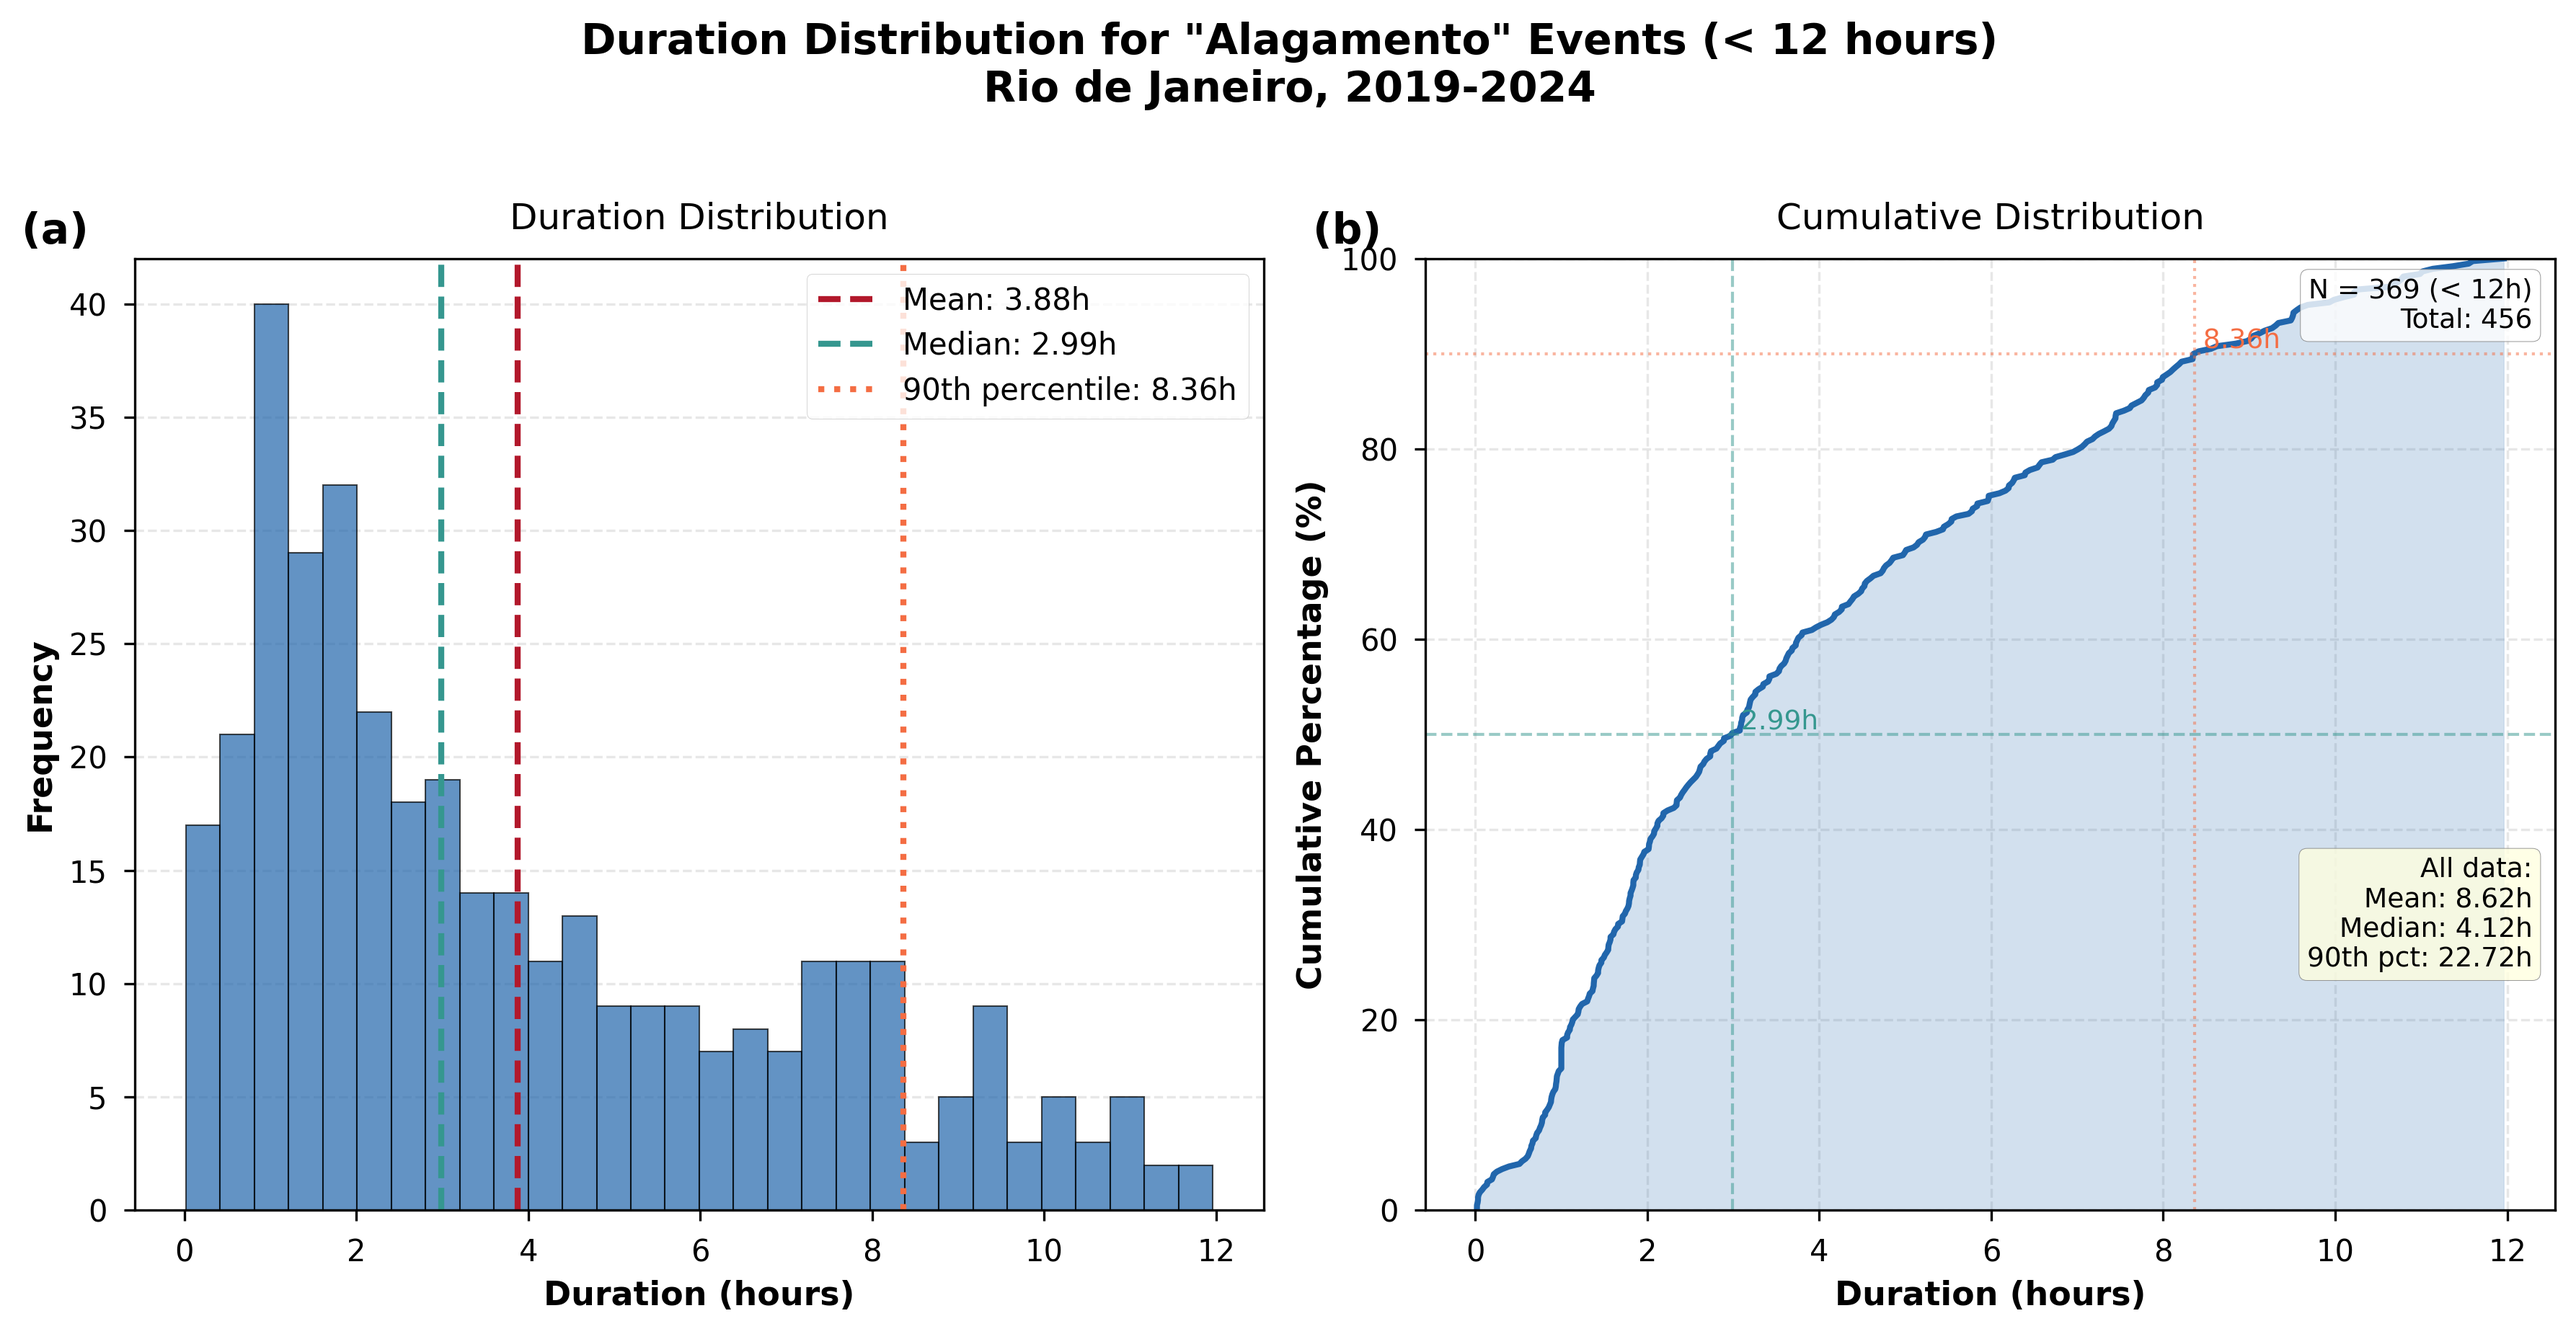
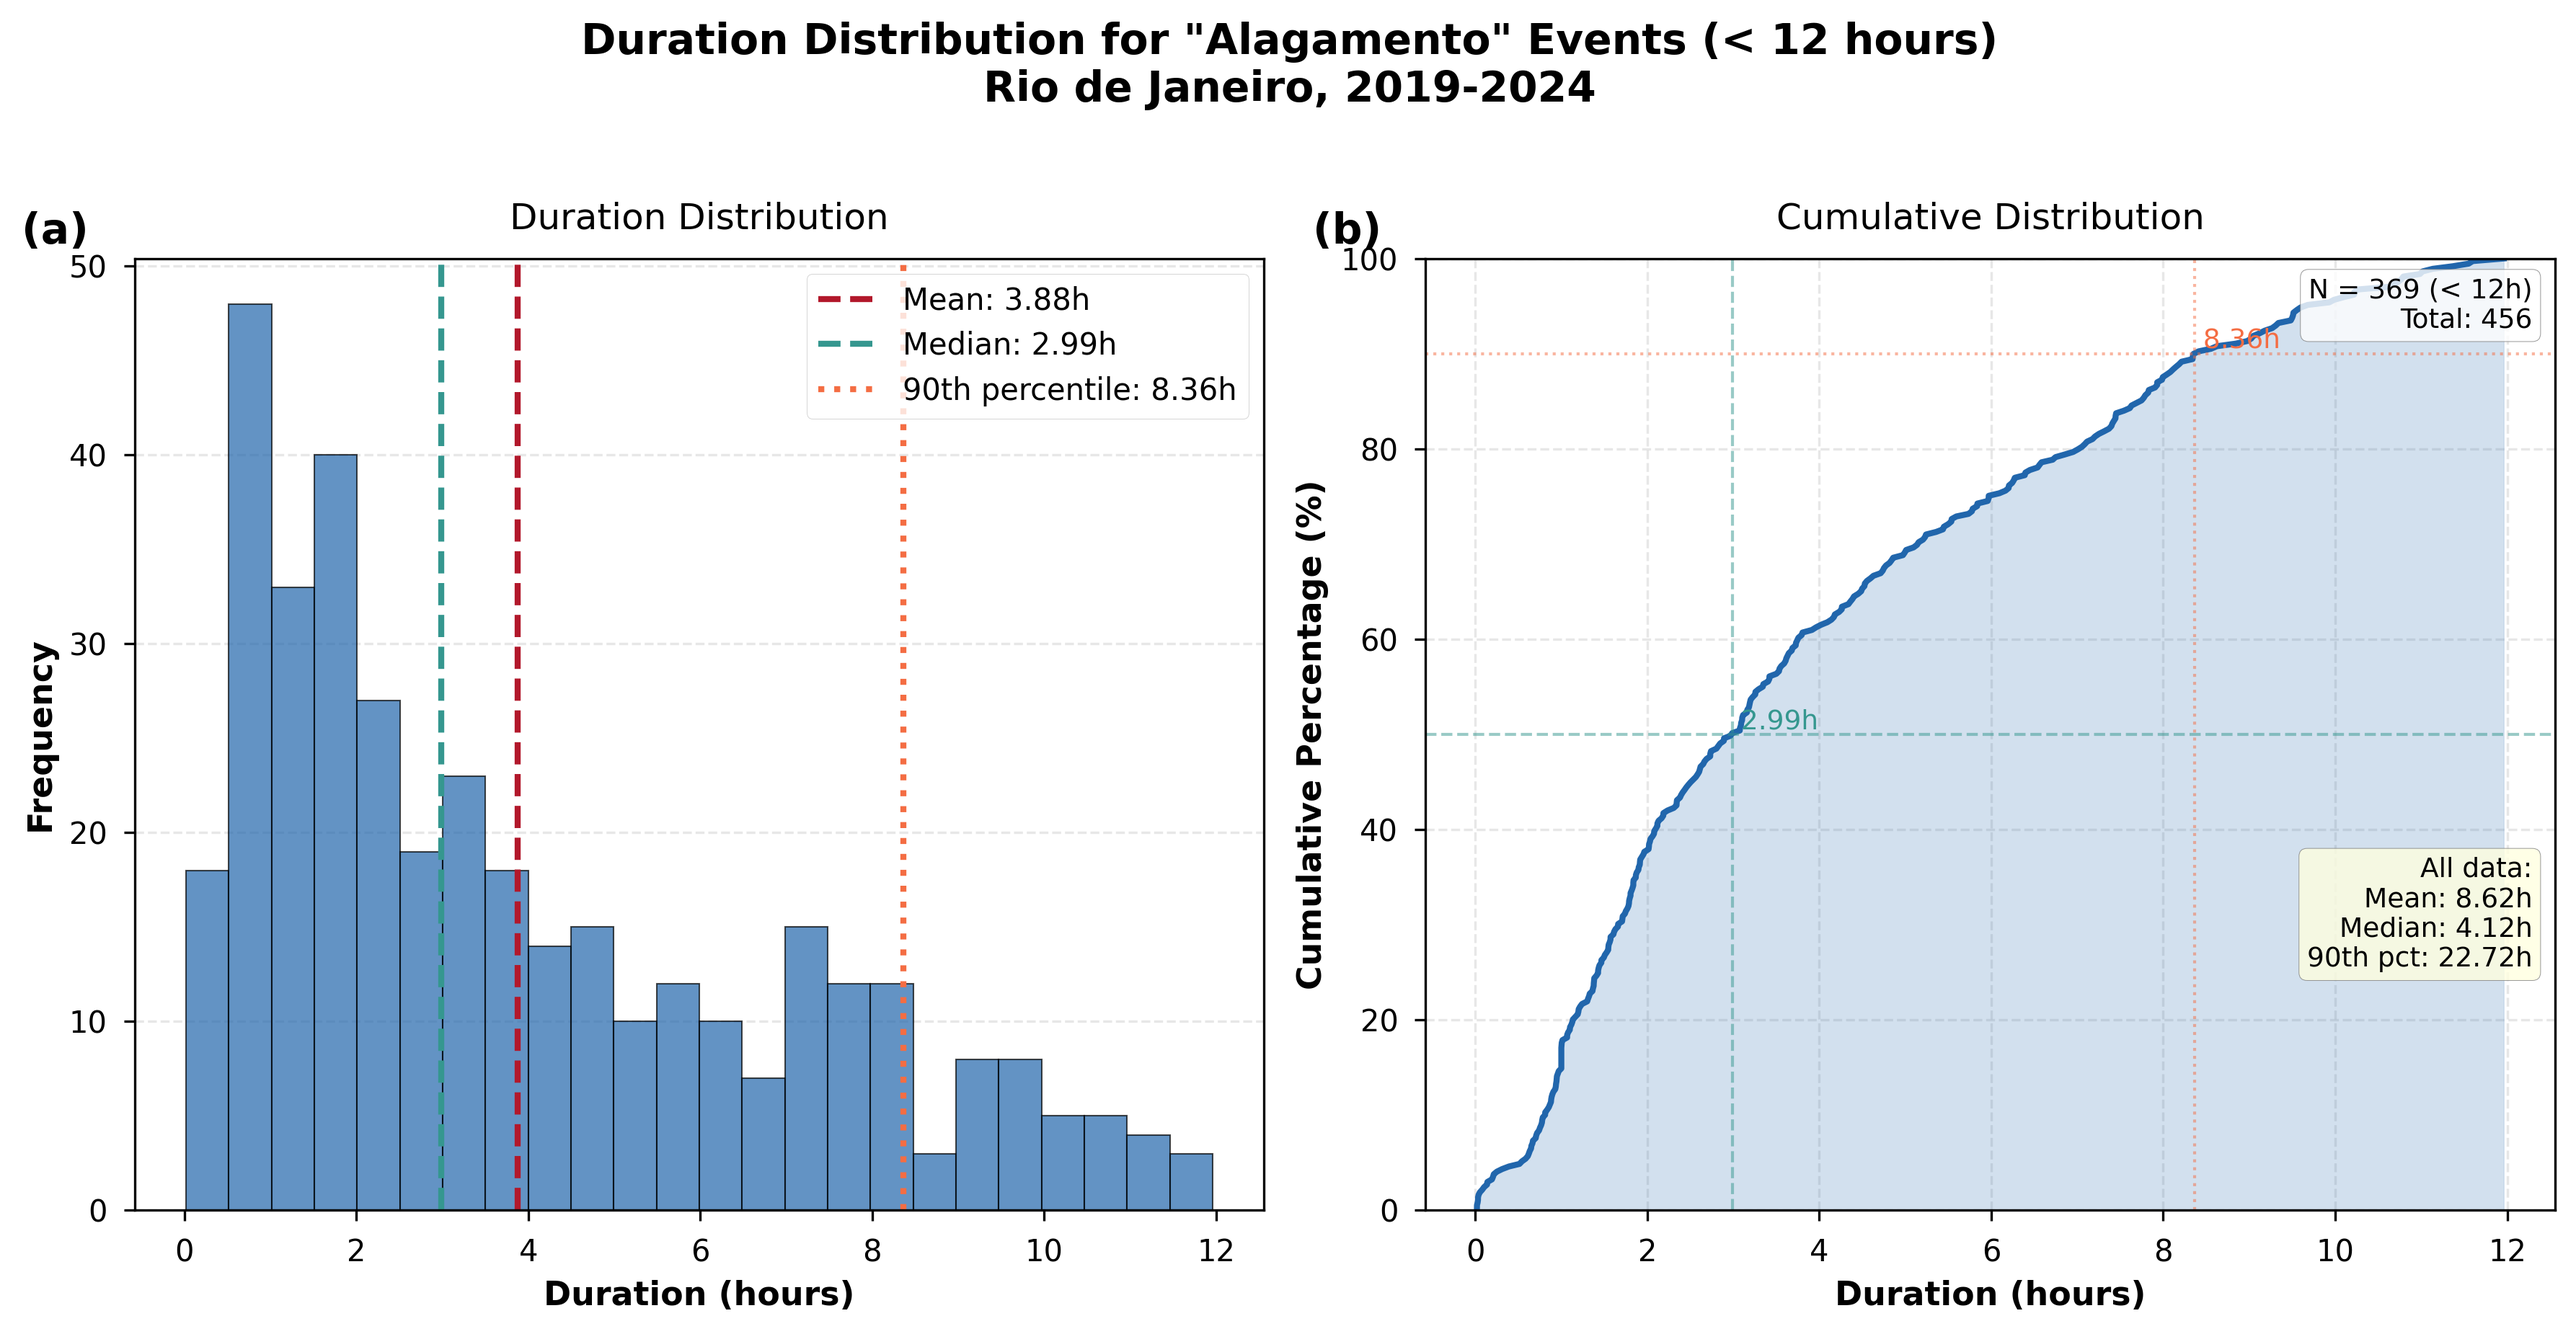
Update duration distribution charts and adjust histogram bins
- Modified `chart_09_duration_distribution_by_type.py` to change the histogram bin count from 30 to 24 for improved data representation.
- Updated binary chart files: `chart_09_duration_distribution_bolsao_and_lamina.png` and `chart_09_duration_distribution_alagamento.png` to reflect the latest changes in the script.

Changed region(s): [[0.0621, 0.2156, 0.1553, 0.6775], [0.1864, 0.6775, 0.466, 0.893], [0.1553, 0.5851, 0.2175, 0.6775]]

diff --git a/scripts/charts/v1/chart_09_duration_distribution_by_type.py b/scripts/charts/v1/chart_09_duration_distribution_by_type.py
@@ -81,7 +81,7 @@ def create_duration_distribution_chart_by_type(ocorrencias_type, event_types_lis
                 fontsize=FONT_SIZES['title'], fontweight='bold', y=1.02)
     
     # Panel A: Histogram with statistics
-    n, bins, patches = ax1.hist(durations_filtered, bins=30, color=COLORS['primary'],
+    n, bins, patches = ax1.hist(durations_filtered, bins=24, color=COLORS['primary'],
                                 edgecolor='black', linewidth=0.5, alpha=0.7)
     
     # Add vertical lines for statistics
